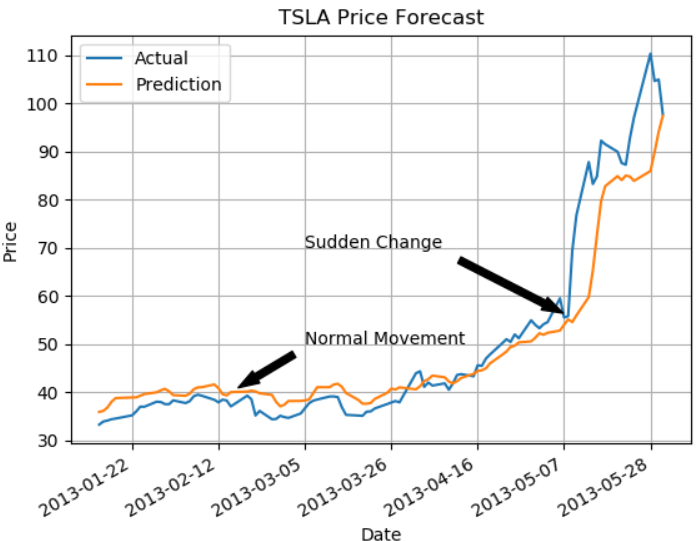
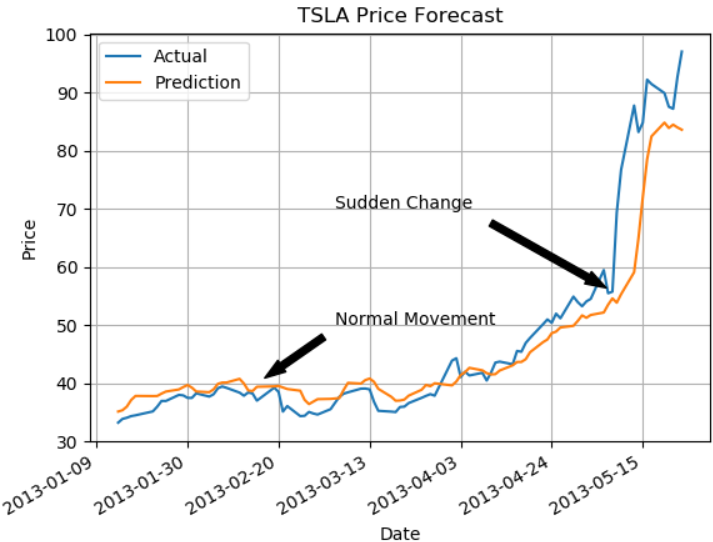
PAL overlay

Changed region(s): [[0.0, 0.0, 1.0, 1.0], [0.7532, 0.6802, 0.8135, 0.7394], [0.8737, 0.6802, 0.9039, 0.7394]]

diff --git a/machine_learning/optimized_lstm/lstm.py b/machine_learning/optimized_lstm/lstm.py
@@ -2,6 +2,7 @@ from utils.util import get_stock_data, plot_data
 from machine_learning.testing.lag_metric import compute_lag_metric
 import machine_learning.dataset_preprocessing as dpp
 import numpy as np
+import matplotlib.pyplot as plt
 from keras.models import Sequential
 from keras.layers.core import Dense, Dropout
 from keras.layers.recurrent import LSTM
@@ -162,5 +163,25 @@ def test_lstm(stock_symbol, start_date, end_date, window, future_gap, time_steps
     df_test['Prediction'] = predictions_inv_scaled
     #ploting the forecast vs the actual
     print("\n> plotting the results...")
-    compute_lag_metric(df_test['Actual'], df_test['Prediction'], 5, stock_symbol)
-    plot_data(df_test, stock_symbol+" Price Forecast", "Date", "Price", show_plot=show_plot_flg)
+    lookup = 5
+    lag_list = compute_lag_metric(df_test['Actual'], df_test['Prediction'], lookup, stock_symbol)
+
+    df_test = df_test[:len(df_test)-lookup+1]
+    plot_data(df_test, stock_symbol+" Price Forecast", "Date", "Price", show_plot=False)
+
+    ax = df_test.plot(title=stock_symbol+" Price Forecast and PAL Overlay")
+    ax.set_xlabel("Date")
+    ax.set_ylabel("Price")
+    ax.legend(loc="best")
+    ax.grid(True)
+    ax.annotate('Normal Movement', xy=('2013-02-15', 40), xytext=('2013-03-05', 50), fontsize=10,
+            arrowprops=dict(facecolor='black', shrink=0.1, headwidth=8))
+    ax.annotate('Sudden Change', xy=('2013-05-10', 55), xytext=('2013-03-05', 70), fontsize=10,
+            arrowprops=dict(facecolor='black', shrink=0.1, headwidth=8))
+
+    ax1 = ax.twinx()
+    ax1.scatter(df_test.index, lag_list, c='g')
+    ax1.set_ylabel("PAL")
+
+    if show_plot_flg:
+        plt.show()

diff --git a/machine_learning/testing/lag_metric.py b/machine_learning/testing/lag_metric.py
@@ -29,3 +29,5 @@ def compute_lag_metric(actual, prediction, lookup, symbol):
     ax1.set_xlabel('Trading Day')
     ax1.set_ylabel('Lag')
     ax1.grid(True)
+
+    return lag_list

diff --git a/machine_learning/testing/results/analysis.md b/machine_learning/testing/results/analysis.md
@@ -28,6 +28,8 @@ This forecast is used to predict the tesla stock for a duration between 01/01/20
 > supports the hypothesis, mentioned earlier, the model finds the closest prediction to the actual price early 
 > on during the normal movement phase, and lags at the end of the timeline during the sudden change phase.
 
+![SvN w/ PAL](https://github.com/ahmedhamdi96/ML4T/blob/master/results/sudden_vs_normal_pal.png)
+
 ### Stable (Amazon) Stock vs Volatile(Tesla) Stock Forecast
 
 ![Stable](https://github.com/ahmedhamdi96/ML4T/blob/master/results/stable.png)
